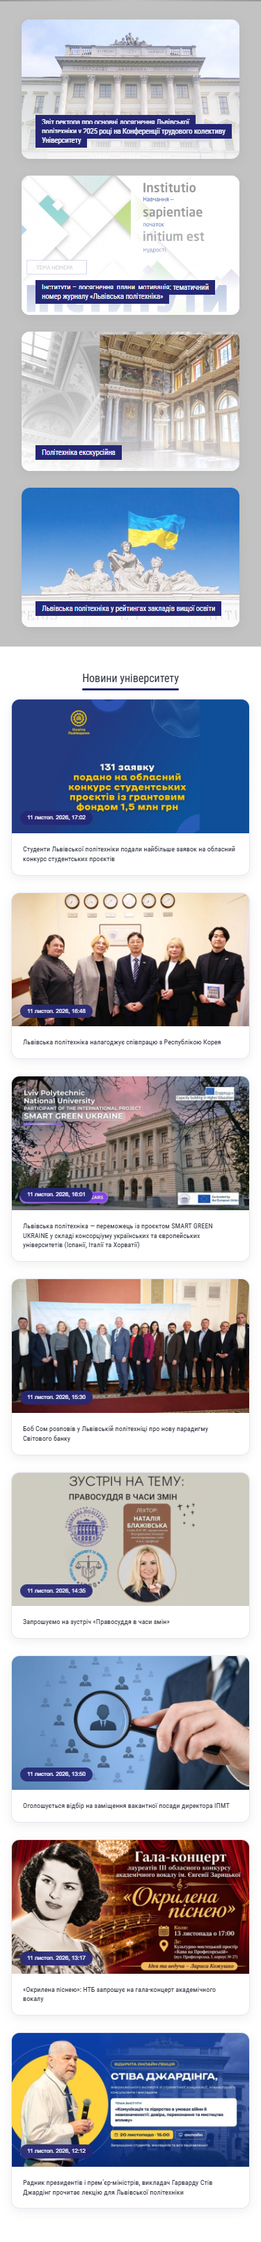
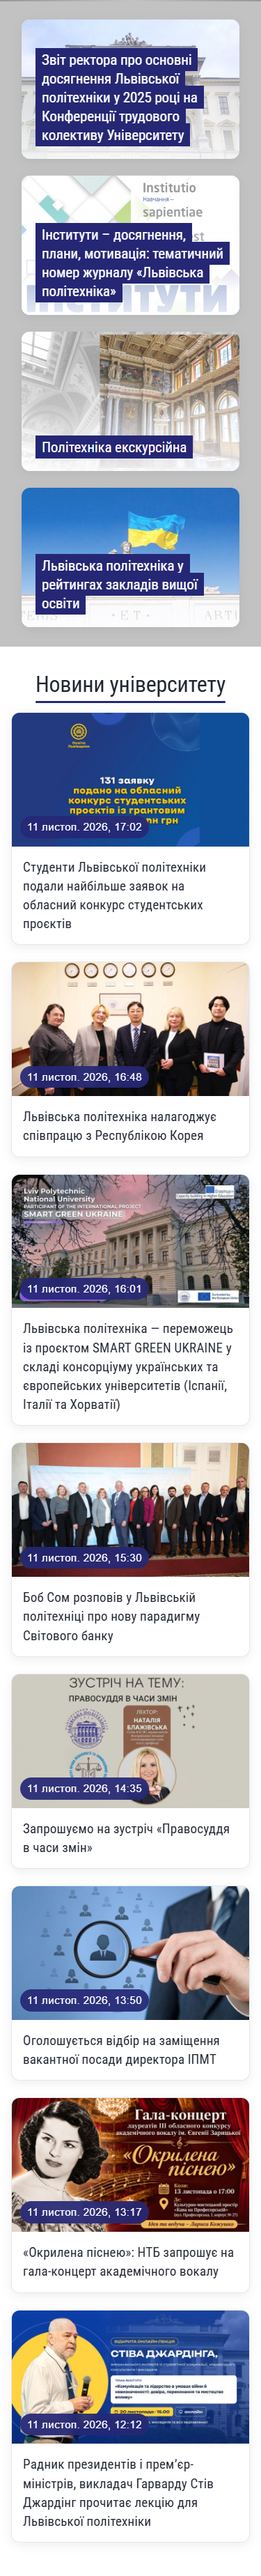
lab7: increase base font size for readability

diff --git a/lab7/css/styles.css b/lab7/css/styles.css
@@ -29,6 +29,7 @@
 }
 
 html {
+    font-size: 112.5%; /* 18px база — більший, читабельніший текст */
     scroll-behavior: smooth;
 }
 
@@ -38,8 +39,8 @@ body {
     background: var(--page-bg);
     color: var(--ink);
     font-family: "Helvetica Neue", Helvetica, Arial, sans-serif;
-    font-size: 16px;
-    line-height: 1.5;
+    font-size: 1rem;
+    line-height: 1.55;
     -webkit-font-smoothing: antialiased;
 }
 
@@ -175,10 +176,10 @@ a:focus-visible {
     padding: 20px;
     color: #fff;
     font-family: 'Roboto Condensed', sans-serif;
-    font-size: clamp(1.05rem, 1.5vw, 1.35rem);
+    font-size: clamp(1.15rem, 1.6vw, 1.5rem);
     font-style: normal;
     font-weight: normal;
-    line-height: 1.25;
+    line-height: 1.3;
 }
 
 .featured-card h2 span {
@@ -226,7 +227,7 @@ main {
 .view-header h2 {
     margin: 0;
     font-family: 'Roboto Condensed', sans-serif;
-    font-size: clamp(1.6rem, 2.8vw, 2.3rem);
+    font-size: clamp(1.75rem, 3vw, 2.5rem);
     font-style: normal;
     font-weight: normal;
     line-height: 1.2;
@@ -325,7 +326,7 @@ main {
     border-radius: 999px;
     background: rgb(37 39 117 / 92%);
     color: #fff;
-    font-size: .78rem;
+    font-size: .85rem;
     letter-spacing: .02em;
     backdrop-filter: blur(4px);
 }
@@ -334,10 +335,10 @@ main {
     margin: 0;
     padding: 16px;
     font-family: 'Roboto Condensed', sans-serif;
-    font-size: 1.02rem;
+    font-size: 1.08rem;
     font-style: normal;
     font-weight: normal;
-    line-height: 1.35;
+    line-height: 1.4;
     transition: color .3s var(--ease);
 }
 

diff --git a/lab7/README.md b/lab7/README.md
@@ -176,7 +176,18 @@ lab7/
 
 - заголовки (`h2`, `h3`, бренд у верхній панелі) — `'Roboto Condensed', sans-serif`;
 - основний текст — стандартний стек Bootstrap 3: `"Helvetica Neue", Helvetica, Arial, sans-serif`;
+- базовий розмір шрифту збільшено до 18 px (`html { font-size: 112.5%; }`), щоб текст було зручніше читати;
 - для заголовків featured-карток використано `font-style: normal; font-weight: normal;`, як у `#featured_container h2` з lab5.
+
+Розміри тексту на сторінці:
+
+| Елемент | Мобільний | Десктоп |
+|---|---|---|
+| Основний текст | 18 px | 18 px |
+| Заголовок featured-картки | 20.7 px | 22.4 px |
+| Заголовок «Новини університету» | 31.5 px | 42 px |
+| Заголовок новини | 19.4 px | 19.4 px |
+| Дата новини | 15.3 px | 15.3 px |
 
 ## 5. Результати перевірки адаптивності
 
